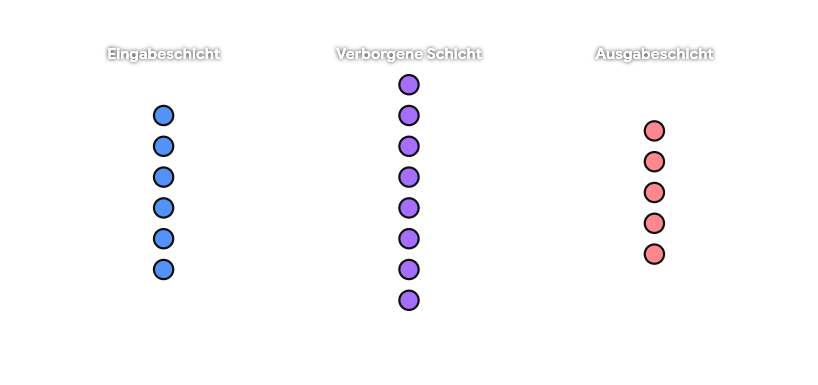
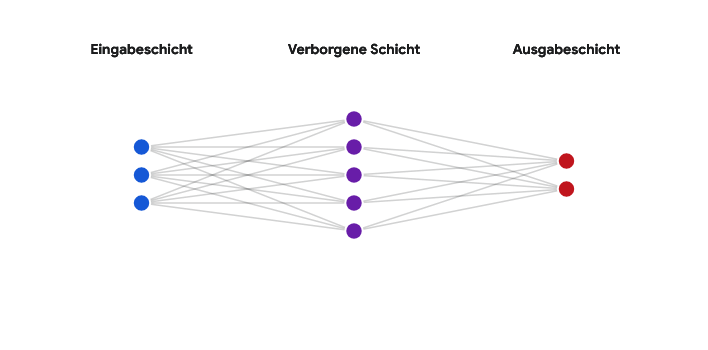
erste Code und seine Erklärung für NN

diff --git a/code/layer.py b/code/layer.py
@@ -1,0 +1,33 @@
+import numpy as np # für matrix erstellung und operationen
+
+class Layer_Dense:
+    """Dense Layer - also fully connected layer klasse.
+    
+    Attributes:
+    number_of_inputs: Anzahl der Eingänge
+    number_of_neurons: Anzahl der Neuronen
+    weights: Gewichte der Verbindungen zwischen Eingängen und Neuronen
+    biases: Biases der Neuronen
+
+    Methods:
+    __init__: Konstruktor, der die Anzahl der Eingänge und Neuronen initialisiert und die Gewichte und Biases zufällig generiert.
+    forward: Methode für die Vorwärtsausbreitung, die die Ausgabe des Layers berechnet.
+    backward: Methode für die Rückwärtsausbreitung, die die Gradienten für die Gewichte und Biases berechnet.
+    """
+    def __init__(self, number_of_inputs : int, number_of_neurons : int):
+        """Konstruktor für die Dense Layer Klasse. Hier kann man die Anzahl der Eingänge und Neuronen angeben, und die Gewichte und Biases werden zufällig generiert."""
+        self.number_of_inputs = number_of_inputs
+        self.number_of_neurons = number_of_neurons
+        self.weights = 0.01 * np.random.randn(number_of_inputs, number_of_neurons) # Matrix der Gewichte, zufällig initialisiert. Größe: Anzahl der Eingänge x Anzahl der Neuronen
+        self.biases = np.zeros((1,number_of_neurons)) # Matrix der Biases, initialisiert mit Nullen, Größe: 1 x Anzahl der Neuronen
+
+    def forward(self, inputs) -> np.ndarray:
+        """Methode für die Vorwärtsausbreitung. Hier wird die Ausgabe des Layers berechnet, indem die Eingänge mit den Gewichten multipliziert und die Biases addiert werden."""
+        self.inputs = inputs # Speichern der Eingänge für die Rückwärtsausbreitung
+        self.output = np.dot(inputs, self.weights) + self.biases # Berechnung der Ausgabe
+        
+        return self.output
+        
+    
+    def backward(self):
+        pass

diff --git a/tagebuch /Tag_02_Layer.md b/tagebuch /Tag_02_Layer.md
@@ -1,0 +1,40 @@
+### Tag 2 : Meine erste Schicht im Code – Warum einzelne Neuronen eine blöde Idee sind
+Willkommen zu Tag 2! Im Tag 1 haben wir uns den Bauplan aufgemalt und verstanden, was ein Neuronales Netzwerk überhaupt ist. Heute machen wir uns die Hände schmutzig und bauen unseren allerersten Lego-Stein in Python: Die Schicht (Layer).
+
+Aber bevor ich losgetippt habe, stand ich vor einem logischen Problem.
+# Der Anfänger-Fehler: Warum ich keine Neuron-Klasse baue
+Mein erster Gedanke war: "Okay, ein Netzwerk besteht aus Neuronen. Also schreibe ich eine Klasse namens Neuron und packe hunderte davon in eine Liste." Klingt logisch, wäre aber eine Katastrophe geworden! Wenn ich für jedes Neuron einzeln die Gewichte anpasse und die Ausgaben berechne, müsste ich riesige for-Schleifen in Python schreiben. Und Python ist bei Schleifen leider extrem langsam. Das Training würde ewig dauern.
+
+Deshalb habe ich mich für den clevereren Weg entschieden: Ich baue direkt die ganze Schicht (Layer). Indem ich alle Eingänge, Gewichte und Biases in große Zahlentabellen (Matrizen) packe, kann der Computer alle Neuronen einer Schicht auf einen Schlag berechnen. Das ist nicht nur viel schneller, sondern auch viel eleganter. Statt hunderte von Neuronen einzeln zu berechnen, kann ich mit einer einzigen Zeile Code die gesamte Schicht durchrechnen lassen. Das ist der Schlüssel zur Effizienz in Neuronalen Netzwerken.
+
+### Die "Dense Layer": Unser Allrounder
+Die Schicht, die ich heute geschrieben habe, nennt sich Dense Layer (oder "Fully Connected Layer"). "Dicht", weil hier wirklich jeder Eingang mit absolut jedem Neuron verbunden ist.
+
+Die Mathematik dahinter ist eigentlich total simpel:
+Ausgabe = (Eingänge * Gewichte) + Biases
+
+### Der Bauplan: Mein Python-Code
+In meiner Datei habe ich eine Klasse namens Layer_Dense angelegt. Sie hat eigentlich drei Hauptaufgaben, aber eine davon hebe ich mir für später auf:
+
+1. Die Vorbereitung (Der Konstruktor __init__)
+Wenn ich die Schicht erschaffe, muss ich ihr nur sagen: Wie viele Eingänge kommen rein? Und wie viele Neuronen willst du haben? * Die Gewichte generiere ich komplett zufällig (damit nicht alle Neuronen das Gleiche lernen). Ich multipliziere sie mit 0.01, damit die Startwerte sehr klein sind – sonst schießen die Zahlen später durch die Decke und das Training crasht.
+
+    Die Biases setze ich zum Start einfach alle auf Nullen. Das ist eine gängige Praxis, weil die Gewichte ja schon zufällig sind. Es gibt keinen Grund, die Biases von Anfang an zu stören. 
+
+2. Die Arbeit (Der Vorwärtsdurchlauf forward)
+Hier fließen die Daten durch die Schicht. Die Methode nimmt die Eingabedaten und rechnet unsere Formel aus.
+Ein kleines Geheimnis: Ich speichere die inputs extra in der Klasse ab (self.inputs = inputs). Warum? Weil ich diese Originaldaten später für die Backpropagation (das Lernen aus Fehlern) unbedingt wieder brauche!
+
+3. Das Lernen (Der Rückwärtsdurchlauf backward)
+Wenn ihr in meinen Code schaut, seht ihr da noch eine backward-Methode, in der aktuell nur pass steht. Warum ist die leer?
+Das ist der Platzhalter für die Backpropagation – also den Teil, in dem das Netzwerk berechnet, wie sehr es sich geirrt hat und seine Gewichte anpasst. Aber bevor das Netz aus seinen Fehlern lernen kann, müssen wir erstmal den Vorwärtsdurchlauf komplett fertig bauen und den Fehler überhaupt messen können! Deshalb bleibt diese Methode heute noch leer. Das dicke Mathe-Brett bohren wir erst in ein paar Tagen.
+
+## np.dot: Meine absolute Geheimwaffe
+Wie rechne ich das alles jetzt ohne langsame for-Schleifen aus? Die Antwort heißt NumPy.
+
+NumPy ist die absolute Standard-Bibliothek für Mathe in Python. Statt jedes Neuron einzeln zu multiplizieren, nutze ich die Funktion np.dot() (das sogenannte Skalarprodukt). Diese eine Funktion multipliziert meine kompletten Eingangs-Matrizen mit meinen Gewichts-Matrizen und addiert die Biases in einem einzigen, extrem optimierten Schritt. Das macht den Code nicht nur tausendmal schneller, sondern er liest sich auch viel sauberer.
+
+### Fazit für heute
+Mein erster Baustein steht! Ich habe eine Schicht, die blitzschnell Daten entgegennehmen, sie gewichten und weiterleiten kann.
+
+Aber ich muss ehrlich sein: Aktuell ist mein Netzwerk noch strunzdumm. Es kann nur lineare Mathematik, also gerade Linien ziehen. Es ist wie ein Auto ohne Motor – es hat alle Teile, sieht toll aus, aber es kann noch nirgendwohin fahren und keine komplexen Muster (wie handgeschriebene Zahlen) erkennen.